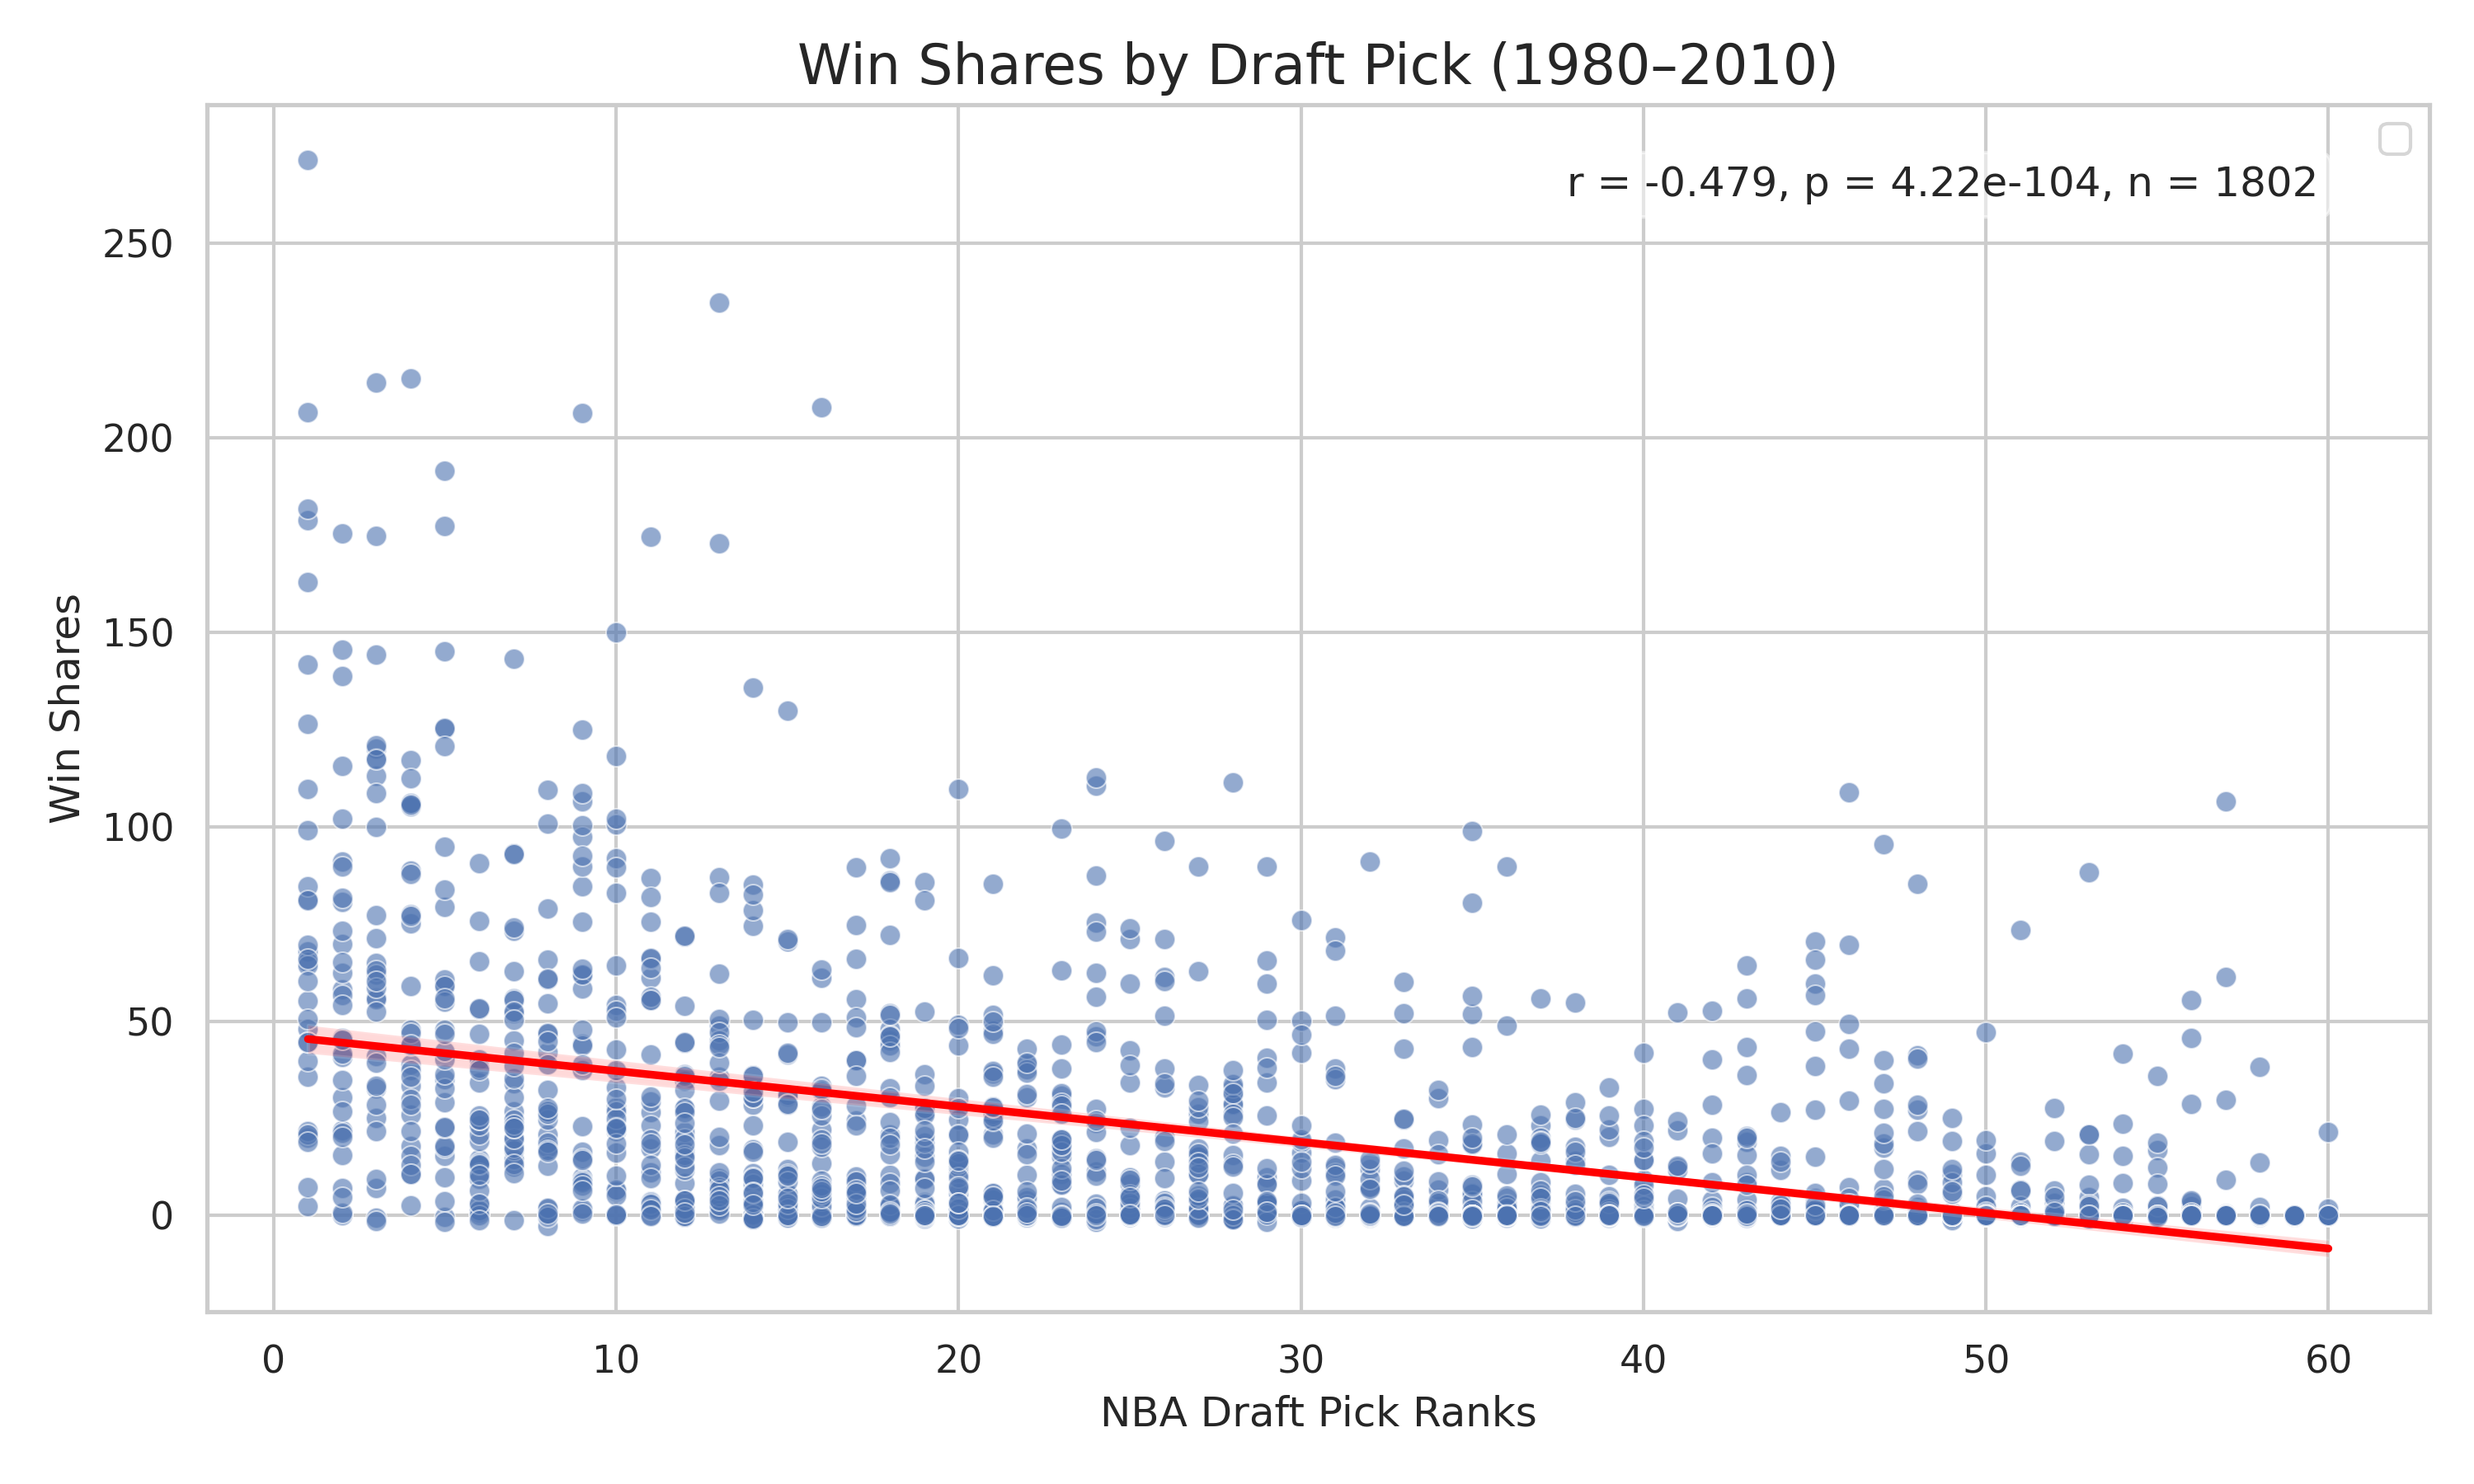
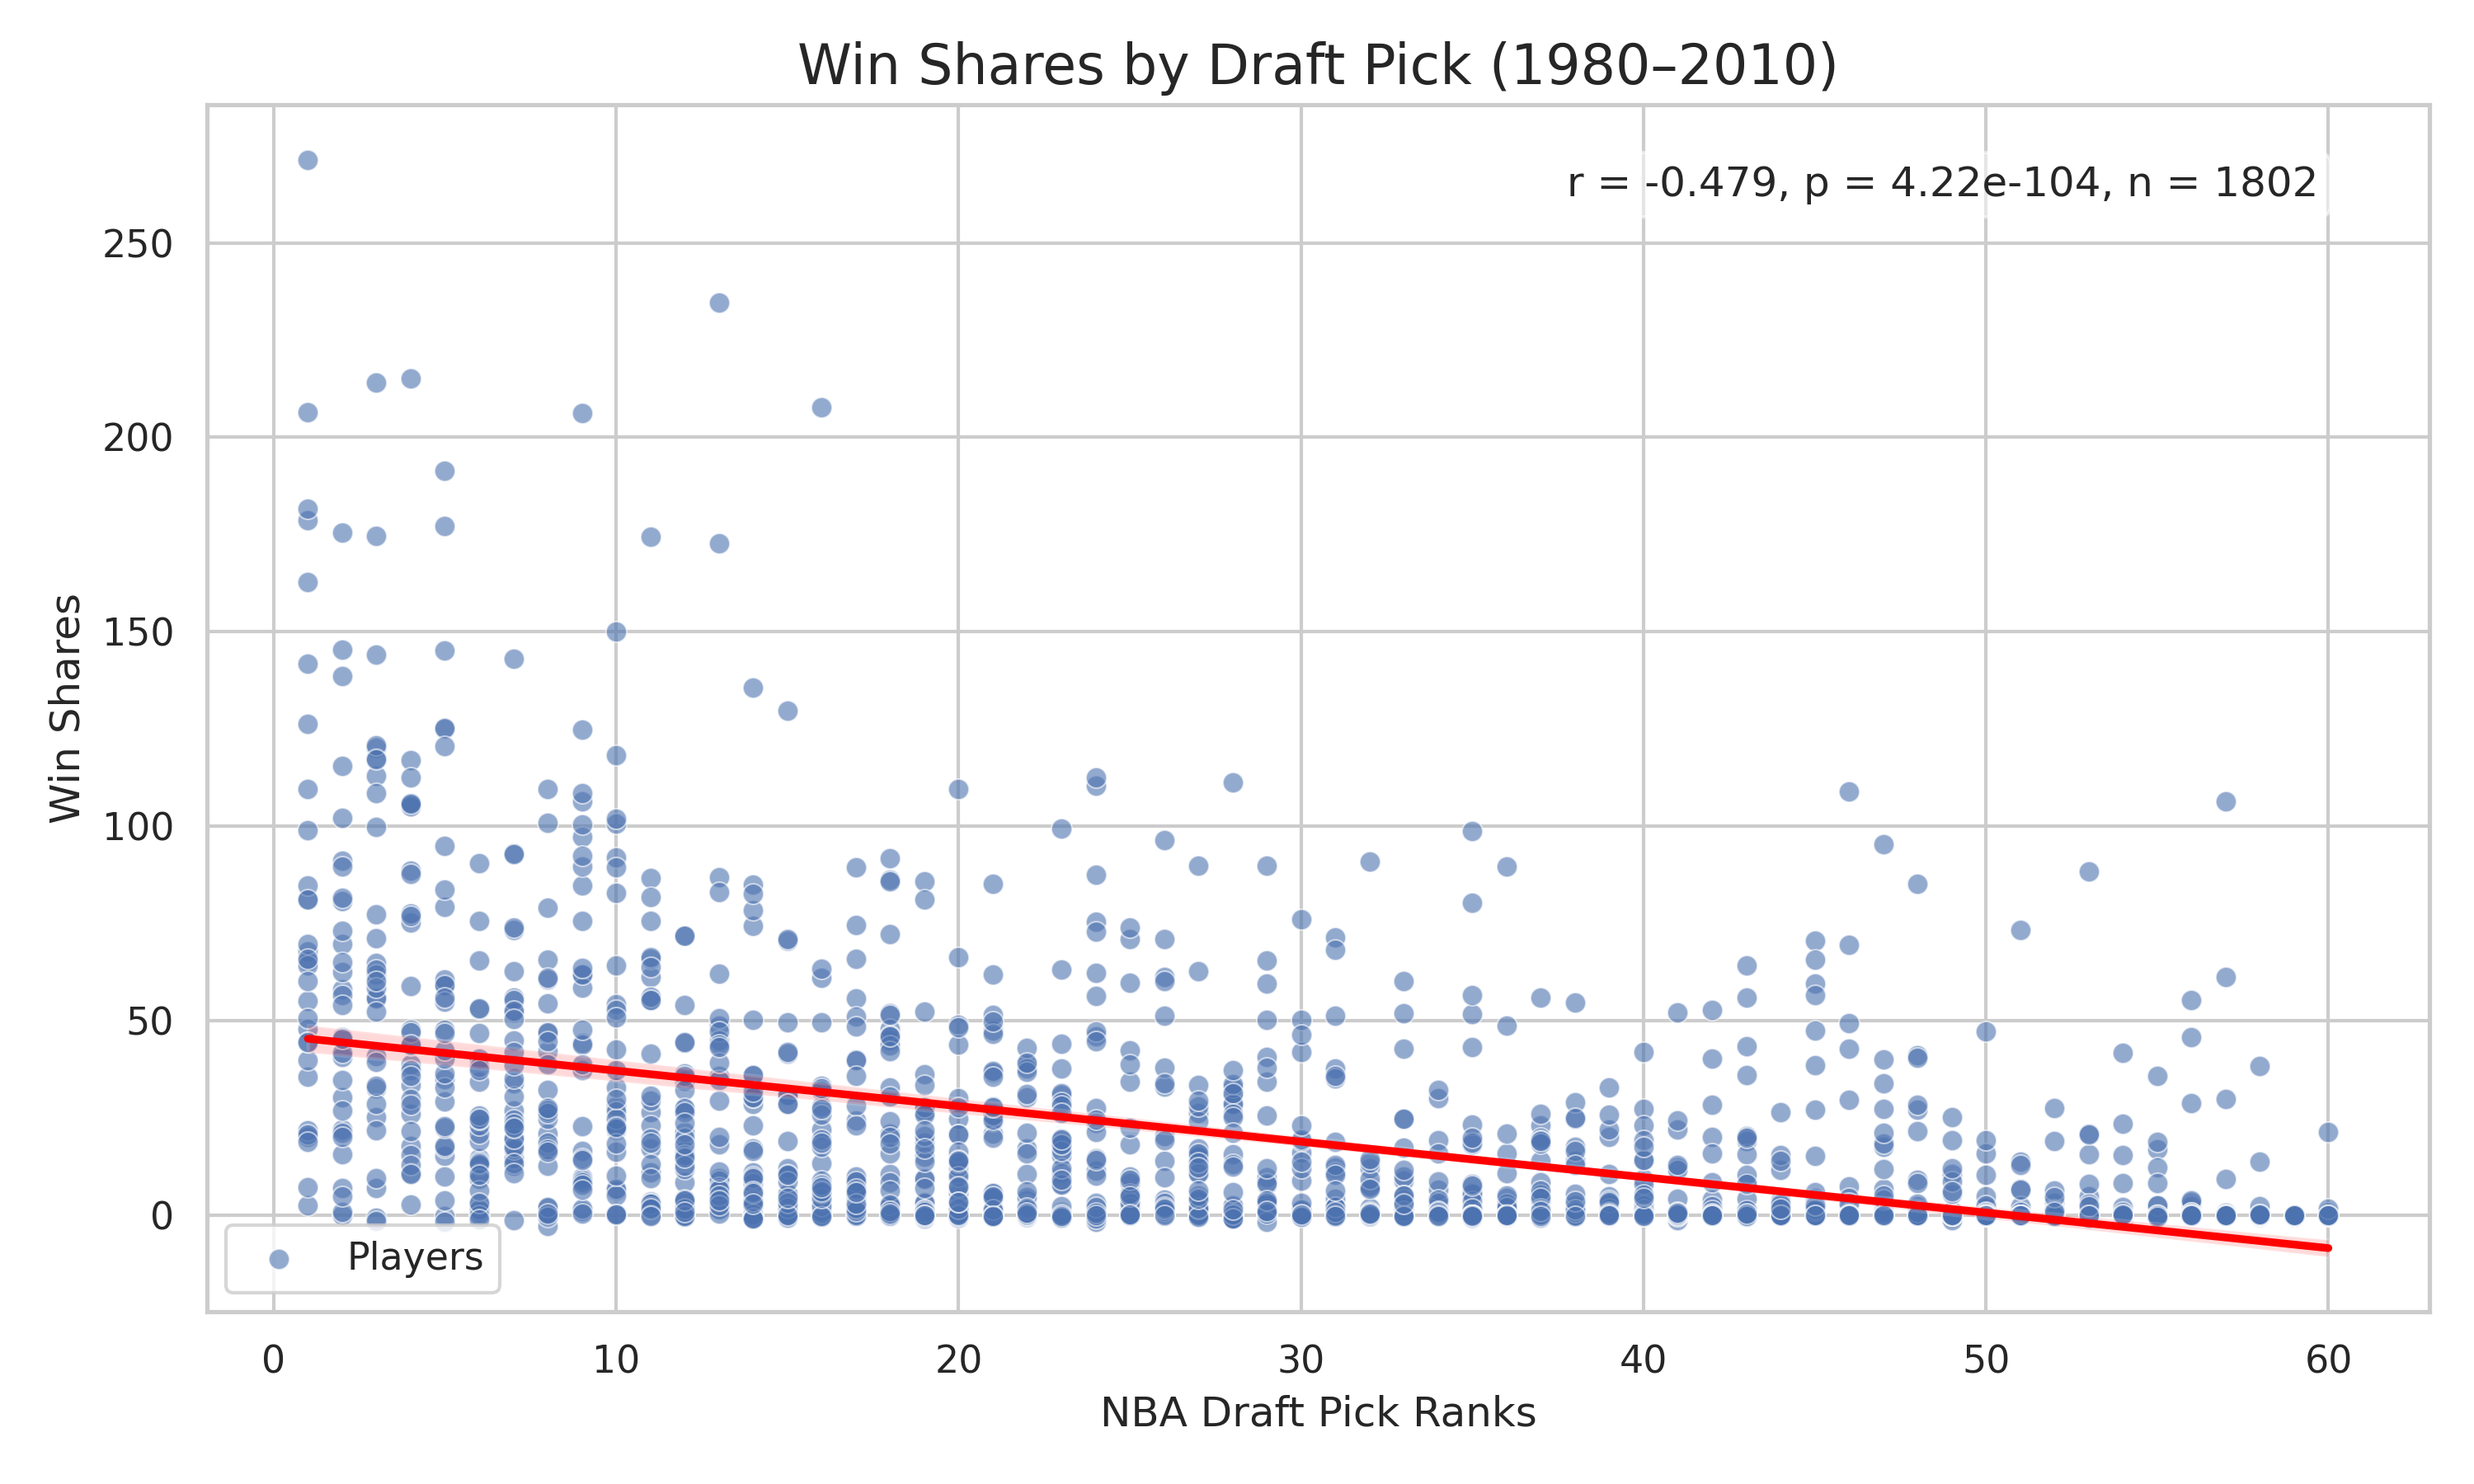
use a branch, modify ws_pick.py to make a better scatter plot

Changed region(s): [[0.093, 0.8089, 0.217, 0.8711], [0.124, 0.6844, 0.217, 0.7156], [0.403, 0.7467, 0.434, 0.7778]]

diff --git a/analysis/ws_pick.py b/analysis/ws_pick.py
@@ -40,7 +40,7 @@ n = len(df_clean)   # Number of observations
 sns.set(style="whitegrid")
 plt.figure(figsize=(10, 6))
 
-sns.scatterplot(x="Pk", y="Advanced_WS", data=df, alpha=0.6)
+sns.scatterplot(x="Pk", y="Advanced_WS", data=df, alpha=0.6, label="Players")
 sns.regplot(x="Pk", y="Advanced_WS", data=df, scatter=False, color="red", line_kws={"label": "Linear Fit"})
 
 # 9. Annotate plot with correlation statistics
